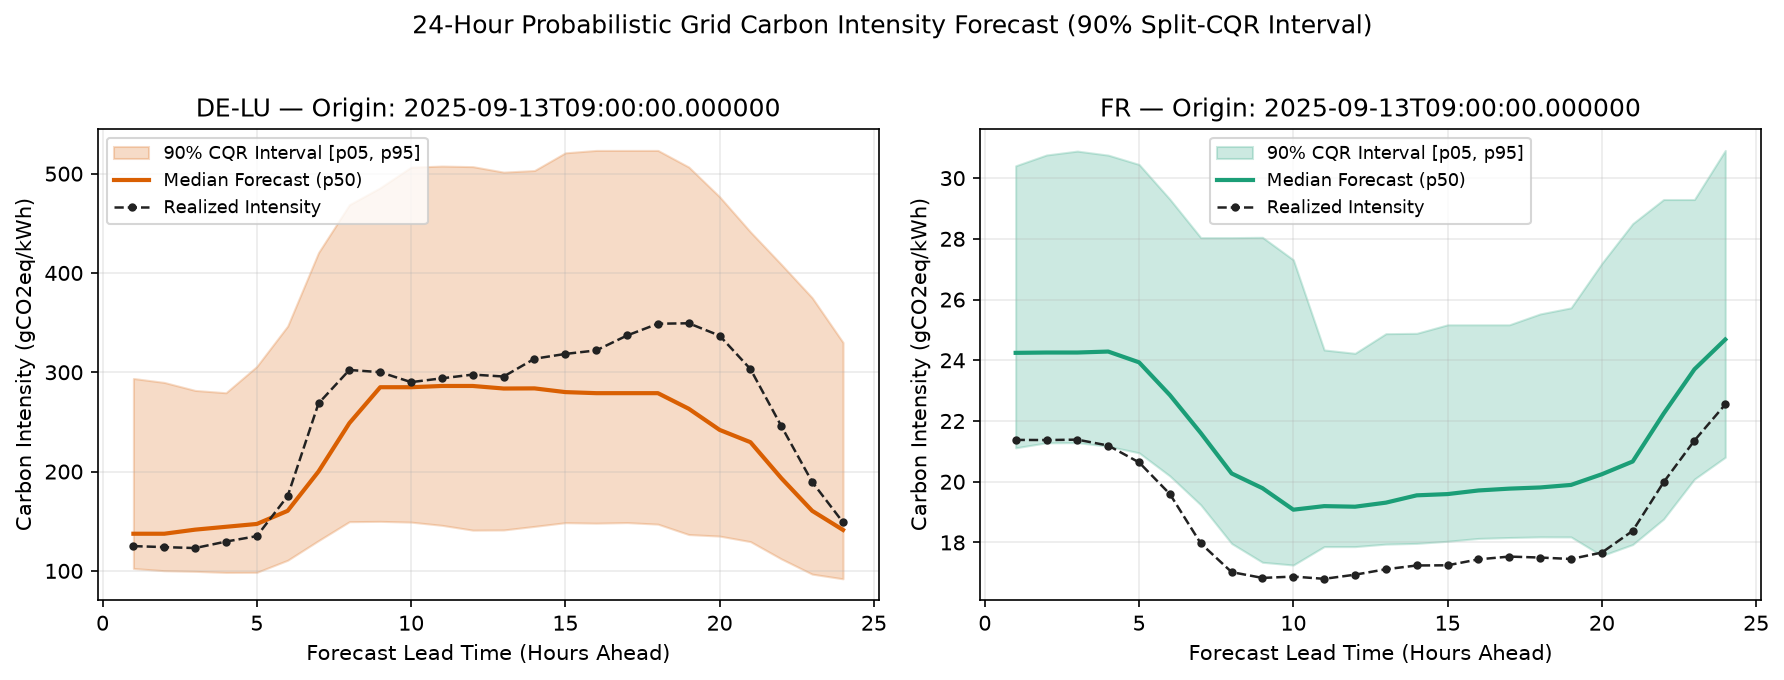
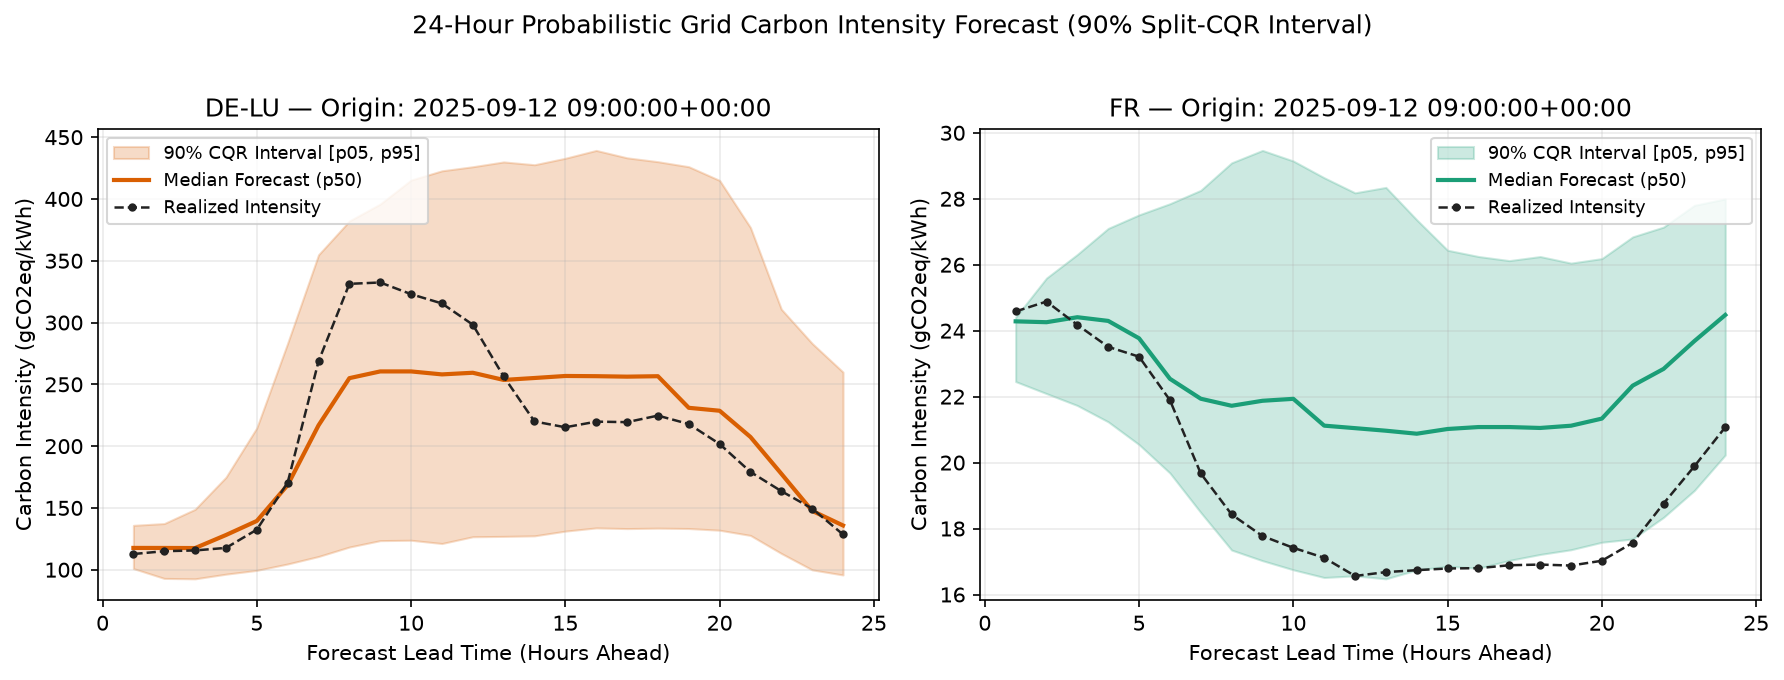
test(A-D): close audit gaps, finish Phase D docs, regenerate outputs
Audit: each Phase A-D fix was broken on purpose in a scratch copy and the
suite run against it. 24 of 28 breakages were caught; the 4 survivors
exposed missing tests, all closed here (28 of 28 now caught):

- Gate G2 audit now also re-derives the six origin-state generation-mix
  features and the rolling std; the perturbation test perturbs every input
  column, not only intensity
- the trained median must beat persistence on Gate-Val (catches a
  level/change target mismatch between training and prediction)
- direct sign test for add_conformity_scores
- logged Gate-Val metrics must equal a recomputation from the walk-forward
  predictions

Phase D completion:
- D8/D9: concept note describes the asymmetric per-horizon scores, weekly
  recalibration and walk-forward evaluation, and drops the "guaranteed
  finite-sample coverage" claim; it discloses that the locked test was not
  kept fully sealed
- AGENTS.md: calibration granularity and locked-test wording match the code
- register: Phase D statuses, D10, D11 (FR h=1 narrowly loses to
  persistence), audit record
- gold output keeps calibrated columns only; forecast CSV and fan chart
  regenerated with the current model (out-of-sample walk-forward forecast)

27 tests.

diff --git a/tests/test_pyfunc_contract.py b/tests/test_pyfunc_contract.py
@@ -13,6 +13,7 @@ from mlflow.tracking import MlflowClient
 from carbon_mlops.config import CarbonMLOpsConfig
 from carbon_mlops.features.build_features import CAUSAL_FEATURE_COLS, build_horizon_features
 from carbon_mlops.models.conformal import (
+    add_conformity_scores,
     calibrate_offsets,
     conformal_quantile,
     select_calibration_window,
@@ -20,7 +21,11 @@ from carbon_mlops.models.conformal import (
 )
 from carbon_mlops.models.evaluate_gate import evaluate_and_promote_champion
 from carbon_mlops.models.pyfunc_wrapper import ConformalCarbonForecaster
-from carbon_mlops.models.train import recalibrate_forecaster, train_split_cqr
+from carbon_mlops.models.train import (
+    compute_interval_metrics,
+    recalibrate_forecaster,
+    train_split_cqr,
+)
 from tests.test_no_leakage import _make_synthetic_bronze
 
 
@@ -114,6 +119,28 @@ def test_conformal_quantile_is_the_finite_sample_order_statistic() -> None:
         conformal_quantile(np.array([]), 0.95)
 
 
+class _FixedRawQuantiles:
+    """Stub exposing predict_raw_quantiles with constant level-scale quantiles."""
+
+    def predict_raw_quantiles(self, model_input: pd.DataFrame) -> pd.DataFrame:
+        return pd.DataFrame(
+            {"raw_q05": 90.0, "raw_q50": 100.0, "raw_q95": 110.0}, index=model_input.index
+        )
+
+
+def test_conformity_scores_are_positive_exactly_when_truth_is_outside() -> None:
+    labelled = pd.DataFrame({"target_carbon_intensity": [80.0, 100.0, 125.0]})
+    scored = add_conformity_scores(_FixedRawQuantiles(), labelled)
+
+    # Truth below the lower quantile: positive low score. Above the upper: positive high score.
+    assert scored["low_score"].tolist() == [10.0, -10.0, -35.0]
+    assert scored["high_score"].tolist() == [-30.0, -10.0, 15.0]
+
+    with pytest.raises(ValueError, match="realized targets"):
+        unlabelled = pd.DataFrame({"target_carbon_intensity": [np.nan]})
+        add_conformity_scores(_FixedRawQuantiles(), unlabelled)
+
+
 def _scored_history(n_hours: int = 24 * 40) -> pd.DataFrame:
     """Synthetic scored rows for one zone and one horizon, one origin per hour."""
     origins = pd.date_range("2025-01-01", periods=n_hours, freq="h", tz="UTC")
@@ -204,9 +231,21 @@ def test_us22_mlflow_registry_and_champion_promotion_gate(tmp_path: Path) -> Non
     assert (gate_preds["calibrated_as_of"] <= gate_preds["origin_timestamp"]).all()
     assert (gate_preds["p05"] <= gate_preds["p50"]).all()
     assert (gate_preds["p50"] <= gate_preds["p95"]).all()
+    metrics = artifacts.gate_val_metrics
     for zone_key in ("de_lu", "fr"):
-        assert f"gate_val_coverage_{zone_key}" in artifacts.gate_val_metrics
-        assert f"gate_val_persistence_pinball_p50_{zone_key}" in artifacts.gate_val_metrics
+        assert f"gate_val_coverage_{zone_key}" in metrics
+        # The trained median must be a better forecast than "no change from now".
+        assert (
+            metrics[f"gate_val_pinball_p50_{zone_key}"]
+            < metrics[f"gate_val_persistence_pinball_p50_{zone_key}"]
+        )
+
+    # Logged metrics are exactly what the walk-forward predictions imply.
+    truth = gate_preds["target_carbon_intensity"]
+    recomputed = float(((truth >= gate_preds["p05"]) & (truth <= gate_preds["p95"])).mean())
+    assert metrics["gate_val_coverage"] == pytest.approx(recomputed)
+    assert metrics == compute_interval_metrics(gate_preds, cfg, prefix="gate_val")
+    assert 0.0 < metrics["gate_val_coverage"] < 1.0
 
     # The registered forecaster scores every horizon and can be recalibrated on new data.
     full_origin = feats.dropna(subset=["target_carbon_intensity"]).groupby(

diff --git a/tests/test_no_leakage.py b/tests/test_no_leakage.py
@@ -34,8 +34,8 @@ def _make_synthetic_bronze(hours: int = 72) -> pd.DataFrame:
                     "carbon_intensity_g_kwh": base_ci
                     + 25.0 * np.sin(2 * np.pi * i / 24.0)
                     + i * 0.1,
-                    "wind_share": 0.30,
-                    "solar_share": 0.15,
+                    "wind_share": 0.30 + 0.10 * np.sin(i / 7.0),
+                    "solar_share": 0.15 + 0.05 * np.cos(i / 5.0),
                     "renewable_share": 0.50,
                     "nuclear_share": 0.0 if zone == "DE-LU" else 0.70,
                     "fossil_share": 0.45 if zone == "DE-LU" else 0.05,
@@ -62,11 +62,14 @@ def test_gate_g2_temporal_invariants_and_lag_causality(tmp_path: Path) -> None:
     for col in CAUSAL_FEATURE_COLS:
         assert col in features.columns, f"Missing feature column {col}"
 
-    # 3. Perturbing future targets after origin t0 must NOT change features at or before t0
+    # 3. Perturbing EVERY input column after origin t0 must NOT change features at or before t0
     t0 = pd.Timestamp("2025-01-02 12:00:00")
     bronze_perturbed = bronze.copy()
     future_mask = bronze_perturbed["timestamp_utc"] > t0
     bronze_perturbed.loc[future_mask, "carbon_intensity_g_kwh"] = 1999.0
+    share_cols = ["wind_share", "solar_share", "renewable_share", "nuclear_share", "fossil_share"]
+    bronze_perturbed.loc[future_mask, share_cols] = 0.99
+    bronze_perturbed.loc[future_mask, "gen_total_mwh"] = 1.0
 
     features_perturbed = build_horizon_features(
         bronze_perturbed, cfg=cfg, write_output=False, base_dir=tmp_path
@@ -183,6 +186,24 @@ def test_gate_g2_audit_detects_wrong_target(tmp_path: Path) -> None:
     wrong["target_carbon_intensity"] = wrong["carbon_intensity_origin"]
     with pytest.raises(AssertionError, match="target is not the value"):
         audit_temporal_alignment(wrong, grid)
+
+
+def test_gate_g2_audit_detects_future_generation_mix(tmp_path: Path) -> None:
+    features, grid = _one_zone_features(tmp_path)
+    leaked = features.copy()
+    future_wind = grid.set_index("timestamp_utc")["wind_share"].shift(-3)
+    leaked["wind_share_origin"] = future_wind.reindex(leaked["origin_timestamp"]).to_numpy()
+    with pytest.raises(AssertionError, match="wind_share_origin"):
+        audit_temporal_alignment(leaked, grid)
+
+
+def test_gate_g2_audit_detects_centered_rolling_window(tmp_path: Path) -> None:
+    features, grid = _one_zone_features(tmp_path)
+    leaked = features.copy()
+    centered = grid.set_index("timestamp_utc")["carbon_intensity_g_kwh"].rolling(24, center=True)
+    leaked["ci_roll24_std"] = centered.std().reindex(leaked["origin_timestamp"]).to_numpy()
+    with pytest.raises(AssertionError, match="ci_roll24_std"):
+        audit_temporal_alignment(leaked.dropna(subset=["ci_roll24_std"]), grid)
 
 
 def test_splits_are_purged_at_every_boundary(tmp_path: Path) -> None:

diff --git a/src/carbon_mlops/features/build_features.py b/src/carbon_mlops/features/build_features.py
@@ -114,6 +114,16 @@ LAG_HOURS_BY_FEATURE: dict[str, int] = {
 }
 
 
+ORIGIN_STATE_SOURCES: dict[str, str] = {
+    "wind_share_origin": "wind_share",
+    "solar_share_origin": "solar_share",
+    "renewable_share_origin": "renewable_share",
+    "nuclear_share_origin": "nuclear_share",
+    "fossil_share_origin": "fossil_share",
+    "gen_total_mwh_origin": "gen_total_mwh",
+}
+
+
 def audit_temporal_alignment(zone_features: pd.DataFrame, grid_df: pd.DataFrame) -> None:
     """Gate G2: re-derive every lag and target by timestamp lookup and compare.
 
@@ -140,10 +150,21 @@ def audit_temporal_alignment(zone_features: pd.DataFrame, grid_df: pd.DataFrame)
     if not np.allclose(actual_target, expected_target, equal_nan=True):
         raise AssertionError("Gate G2 violation: target is not the value at target_timestamp")
 
-    rolling_mean = series.rolling("24h", min_periods=12).mean()
-    expected_roll = rolling_mean.reindex(origin).to_numpy()
-    if not np.allclose(zone_features["ci_roll24_mean"].to_numpy(), expected_roll, equal_nan=True):
-        raise AssertionError("Gate G2 violation: ci_roll24_mean is not the trailing 24h mean")
+    trailing = series.rolling("24h", min_periods=12)
+    expected_roll = {
+        "ci_roll24_mean": trailing.mean(),
+        "ci_roll24_std": trailing.std().fillna(0.0),
+    }
+    for col, expected_series in expected_roll.items():
+        expected = expected_series.reindex(origin).to_numpy()
+        if not np.allclose(zone_features[col].to_numpy(), expected, equal_nan=True):
+            raise AssertionError(f"Gate G2 violation: {col} is not a trailing 24h statistic")
+
+    by_hour = grid_df.set_index("timestamp_utc")
+    for col, source in ORIGIN_STATE_SOURCES.items():
+        expected = by_hour[source].reindex(origin).to_numpy(dtype=float)
+        if not np.allclose(zone_features[col].to_numpy(dtype=float), expected, equal_nan=True):
+            raise AssertionError(f"Gate G2 violation: {col} is not the value of {source} at origin")
 
     if (zone_features["max_feature_timestamp"] > origin).any():
         raise AssertionError("Gate G2 violation: max_feature_timestamp exceeds origin_timestamp")

diff --git a/src/carbon_mlops/inference/batch_score.py b/src/carbon_mlops/inference/batch_score.py
@@ -34,7 +34,7 @@ def run_local_pipeline(cfg: CarbonMLOpsConfig | None = None) -> pd.DataFrame:
     latest_origins = complete.groupby("zone")["origin_timestamp"].transform("max")
     gold_df = (
         complete[complete["origin_timestamp"] == latest_origins]
-        .drop(columns=["low_score", "high_score"])
+        .drop(columns=["low_score", "high_score", "raw_q05", "raw_q50", "raw_q95"])
         .sort_values(["zone", "horizon_h"])
         .reset_index(drop=True)
     )

diff --git a/docs/CONCEPT_NOTE.md b/docs/CONCEPT_NOTE.md
@@ -13,7 +13,7 @@ Decarbonizing flexible industrial and municipal electricity demand—such as com
 Standard scheduling tools rely on **deterministic point forecasts** of grid carbon intensity (`gCO2eq/kWh`). In grids with high variable renewable energy (VRE) penetration like Germany–Luxembourg (`DE-LU`), wind and solar forecast errors create asymmetric tail risks: scheduling a 3-hour industrial batch around an optimistic point forecast can inadvertently trigger peak-hour fossil dispatch (`lignite`/`gas`).
 
 This project operationalizes an end-to-end **Databricks MLOps & Uncertainty-Aware Decision System** for `DE-LU` and France (`FR`) that:
-1. Delivers calibrated 24-hour probabilistic forecasts (`p05`, `p50`, `p95`) with guaranteed finite-sample coverage.
+1. Delivers 24-hour probabilistic forecasts (`p05`, `p50`, `p95`) whose 90% intervals are conformally calibrated and recalibrated weekly on recent forecast errors. Coverage is verified empirically: hourly grid data is autocorrelated and seasonal, so the textbook finite-sample guarantee of conformal prediction does not strictly apply.
 2. Publishes batch-exported Gold forecasts and drift diagnostics to **Tableau Public** (via packaged `.twbx` extracts) for operational planning.
 3. Provides a **grounded, tool-calling QA Copilot** (with MLflow Tracing) that answers risk-constrained dispatch and model-health questions using deterministic queries over Gold tables—never LLM-invented numbers.
 
@@ -21,18 +21,20 @@ This project operationalizes an end-to-end **Databricks MLOps & Uncertainty-Awar
 
 ## 2. Core Research & Operational Questions
 1. **Grid Regime Dynamics (`Sprint 1`):** How do diurnal, seasonal, and renewable-penetration regimes shape the distribution and autocorrelation structure of carbon intensity in `DE-LU` versus nuclear-dominated `FR`?
-2. **Horizon & Regime Uncertainty (`Sprint 1–3`):** How does predictive uncertainty (`p95 - p05` width) evolve across lead times (`t+1h` through `t+24h`) and renewable ramp regimes, and can per-`(zone, horizon_bucket)` Split CQR maintain nominal 90% coverage without look-ahead leakage?
+2. **Horizon & Regime Uncertainty (`Sprint 1–3`):** How does predictive uncertainty (`p95 - p05` width) evolve across lead times (`t+1h` through `t+24h`) and renewable ramp regimes, and can per-`(zone, horizon)` Split CQR with scheduled recalibration maintain nominal 90% coverage without look-ahead leakage?
 3. **Operational Load Shifting (`Sprint 3`):** When and under what upper-bound risk tolerances (`p95`) does domestic `DE-LU` load shifting outperform `FR` carbon parity?
 4. **Production Reliability & Grounded QA (`Sprint 2–4`):** How can automated promotion gates (`@champion`), feature drift (PSI) tracking, and trace-audited tool calling prevent silent model degradation and numeric hallucination?
 
 ---
 
 ## 3. Experimental Design & 4-Way Chronological Split
-To prevent repeated model-selection peeking from contaminating statistical hypothesis testing, the historical timeline is partitioned strictly in chronological order into **four non-overlapping blocks**:
-1. **Train Split (60%):** Fits base LightGBM quantile regressors (`tau in {0.05, 0.50, 0.95}`).
-2. **Conformal Calibration Split (15%):** Computes nonconformity residuals `E_i = max(q_0.05(x_i) - y_i, y_i - q_0.95(x_i))` per `(zone, horizon_bucket)`.
-3. **Validation / Promotion Gate Split (10%):** Used exclusively by `evaluate_gate.py` (`Gate G3`) to evaluate `@challenger` vs. `@champion` coverage and pinball loss prior to promotion.
-4. **Locked Holdout Test Split (15%):** Sealed until **Sprint 3 (`US-3.1`)** and evaluated once for pre-registered hypotheses `H1–H3`.
+To prevent repeated model-selection peeking from contaminating statistical hypothesis testing, the historical timeline is partitioned strictly in chronological order into **four non-overlapping blocks**. A forecast row belongs to a block only if its target hour also falls inside it, so no target hour is shared between blocks:
+1. **Train Split (60%):** Fits base LightGBM quantile regressors (`tau in {0.05, 0.50, 0.95}`) on the change from the origin intensity, so that persistence is the zero prediction.
+2. **Conformal Calibration Split (15%):** Supplies the first realized forecast errors for calibration. The interval is two-sided and asymmetric: lower-tail scores `q_0.05(x_i) - y_i` and upper-tail scores `y_i - q_0.95(x_i)` are each calibrated at the 95% level, separately per `(zone, horizon_h)`. The offsets are not frozen: every 7 days they are recomputed from the trailing 30 days of realized errors.
+3. **Validation / Promotion Gate Split (10%):** Used exclusively by `evaluate_gate.py` (`Gate G3`) to evaluate `@challenger` vs. `@champion` coverage and pinball loss prior to promotion. Its metrics come from a walk-forward replay of the recalibration schedule, so every forecast is calibrated only on errors observed before it.
+4. **Locked Holdout Test Split (15%):** Reserved for the pre-registered hypotheses `H1–H3` in **Sprint 3 (`US-3.1`)** and evaluated as a walk-forward under the same weekly recalibration schedule.
+
+*Disclosure:* The Locked Test was not kept fully sealed. During the pre-freeze review of November 2026 it was scored several times against the earlier model, which used static calibration, and the Sprint 1 EDA plots originally included its period (they have since been regenerated without it). That review's locked-test result prompted the move to scheduled recalibration. The window length, the target formulation and the model settings of the current model were then chosen on Gate-Val only.
 
 *Feature Scope Note:* Features combine strictly causal origin-state grid telemetry (`feature_ts <= origin_timestamp`), target calendar encodings (`target_hour`, `target_dow`, `target_month`), and—where available in the upstream snapshot—day-ahead TSO generation/load schedules published prior to `origin_timestamp`. The current Bronze snapshot exports no day-ahead schedules, prices or cross-border flows, so the model uses origin-state and calendar features only.
 

diff --git a/docs/REVIEW_ISSUES.md b/docs/REVIEW_ISSUES.md
@@ -21,7 +21,7 @@ Gate-Val: DE-LU 92.46%, FR 87.37%, pooled 89.92%.
 | ID | Issue | Where | Status |
 | :--- | :--- | :--- | :--- |
 | A1 | Bare `pytest` fails at collection (`No module named 'tests'`) | `tests/test_pyfunc_contract.py:17`, `ci_cd.yml` | done |
-| A2 | No git remote; CI has never run | repo | user |
+| A2 | No git remote; CI has never run | repo | done (private GitHub remote; CI green) |
 | A3 | `bundle validate` uses a dummy host/token and cannot pass | `ci_cd.yml` | done |
 | A4 | `pytest`, `ruff`, `openai` are runtime dependencies | `pyproject.toml` | done |
 | A5 | `Makefile` and `dev.ps1` lint different paths than CI (`notebooks` missing) | `Makefile`, `scripts/dev.ps1` | done |
@@ -54,7 +54,7 @@ Phase B outcome: lags are now hour-exact and 17 untrusted hours are masked. Lock
 | C1 | No 24h purge; 600 rows per boundary have targets in the next split | `train.py:35-63` | done |
 | C2 | G2 assertions are tautological and miss the lag bug | `build_features.py:135-141`, `test_no_leakage.py` | done |
 | C3 | EDA notebook reads the locked-test period | `notebooks/01_eda_and_data_quality.py` | done (plots regenerated on pre-test data; the earlier look at the test period is disclosed under F11) |
-| C4 | Calibration season (spring/summer) differs from test season (autumn/winter) | design; addressed by D2 | open |
+| C4 | Calibration season (spring/summer) differs from test season (autumn/winter) | design; addressed by D2 | done (addressed by D2) |
 | C5 | EDA notebook crashed at the heatmap (`axes.set_ylabel` on an array), so the committed plots could not be regenerated | `notebooks/01_eda_and_data_quality.py:68` | done |
 | C6 | Local scoring picked the last Gate-Val origin, which after purging has a single horizon | `batch_score.py` | done |
 
@@ -65,15 +65,44 @@ Locked-test coverage after purging: DE-LU 89.67%, FR 80.00% (Gate-Val: DE-LU 92.
 
 | ID | Issue | Where | Status |
 | :--- | :--- | :--- | :--- |
-| D1 | Base model underfit: raw coverage 71–76%, loses to persistence at h=1 (MAE 23.2 vs 16.3) | `train.py:134-145` | open |
-| D2 | Static offsets do not transfer: FR test coverage 80.3% (rolling 60-day recalibration: 85.6%) | `train.py:149-173` | open |
-| D3 | Bucket-level offsets hide per-horizon miscalibration (94.7% at h=1, 89.2% at h=6) | `train.py`, `config.py` | open |
+| D1 | Base model underfit: raw coverage 71–76%, loses to persistence at h=1 (MAE 23.2 vs 16.3) | `train.py:134-145` | done |
+| D2 | Static offsets do not transfer: FR test coverage 80.3% (rolling 60-day recalibration: 85.6%) | `train.py:149-173` | done |
+| D3 | Bucket-level offsets hide per-horizon miscalibration (94.7% at h=1, 89.2% at h=6) | `train.py`, `config.py` | done |
 | D4 | DE-LU coverage is 72% in the top renewable quartile, all misses below p05 | `train.py` | open (optional before freeze) |
-| D5 | Unknown bucket silently gets a zero offset | `pyfunc_wrapper.py:87` | open |
-| D6 | Dead `else` branch that would crash on a float | `pyfunc_wrapper.py:48-53` | open |
-| D7 | `horizon_bucket` is trusted from input instead of derived from `horizon_h` | `pyfunc_wrapper.py:82-86` | open |
-| D8 | Code is asymmetric CQR; concept note describes the symmetric score | `CONCEPT_NOTE.md` §3 | open |
-| D9 | "Guaranteed finite-sample coverage" is an overclaim for autocorrelated data | `CONCEPT_NOTE.md` §1 | open |
+| D5 | Unknown bucket silently gets a zero offset | `pyfunc_wrapper.py:87` | done |
+| D6 | Dead `else` branch that would crash on a float | `pyfunc_wrapper.py:48-53` | done |
+| D7 | `horizon_bucket` is trusted from input instead of derived from `horizon_h` | `pyfunc_wrapper.py:82-86` | done |
+| D8 | Code is asymmetric CQR; concept note describes the symmetric score | `CONCEPT_NOTE.md` §3 | done |
+| D9 | "Guaranteed finite-sample coverage" is an overclaim for autocorrelated data | `CONCEPT_NOTE.md` §1 | done |
+| D10 | Conformal quantile via `np.quantile(method="higher")` landed one rank too high (intervals slightly too wide) | `models/conformal.py` | done |
+| D11 | FR at h=1 narrowly loses to persistence on Gate-Val (MAE 1.398 vs 1.372); every bucket still wins | `train.py` | open (bucket-level baseline check is E3) |
+
+Phase D outcome (all choices made on Gate-Val only; the locked test was not scored):
+
+| Gate-Val walk-forward | Static, 3 buckets | Rolling 30 days, per horizon |
+| :--- | :--- | :--- |
+| DE-LU coverage | 92.3% | 89.5% |
+| FR coverage | 87.0% | 89.0% |
+| Per-horizon coverage range | 84% – 97.5% | 87% – 92% |
+
+The 600-tree model had about 3% lower pinball loss on Gate-Val but takes 26 s to fit; the 200-tree
+model was kept to stay inside the 15 s local-run budget.
+
+## Audit of Phases A–D (2026-11-15)
+
+Each fix was deliberately broken in a scratch copy and the test suite run against it.
+24 of 28 breakages were caught. The 4 survivors exposed missing tests, now added:
+
+| Survivor | Gap | Closed by |
+| :--- | :--- | :--- |
+| A generation-mix feature reading the future | Leakage test perturbed only intensity; G2 audit checked only intensity lags | Audit now covers all origin-state features and the rolling std; perturbation test perturbs every input column |
+| Training on the level while predicting as a change | No test of forecast accuracy | Trained median must beat persistence on Gate-Val |
+| Conformity score with the wrong sign | No direct test of `add_conformity_scores` | Sign test with a stub model |
+| Gate metrics computed from other intervals | Metrics not tied to predictions | Metrics must equal a recomputation from the walk-forward predictions |
+
+Independent re-verification on the real snapshot found 0 flagged hours used as origin or target,
+0 mismatches across lags, rolling statistics and origin-state features, and 0 target hours shared
+between splits.
 
 ## Phase E: Promotion gate
 

diff --git a/AGENTS.md b/AGENTS.md
@@ -2,9 +2,9 @@
 
 ## Domain & Statistical Scope (`DE-LU` & `FR`)
 - **Zones:** `["DE-LU", "FR"]` (Germany-Luxembourg vs. France electricity grids).
-- **Horizons:** `1` to `24` hours ahead (`t+1h` .. `t+24h`), grouped into horizon buckets (`1-6h`, `7-12h`, `13-24h`) for per-`(zone, horizon_bucket)` Split Conformalized Quantile Regression (CQR).
+- **Horizons:** `1` to `24` hours ahead (`t+1h` .. `t+24h`), grouped into horizon buckets (`1-6h`, `7-12h`, `13-24h`) for reporting. Split Conformalized Quantile Regression (CQR) offsets are calibrated per `(zone, horizon_h)` and recalibrated on a schedule (trailing 30 days, every 7 days; `models/conformal.py`).
 - **Target & Quantiles:** Grid carbon intensity (`gCO2eq/kWh`), predicting calibrated `[p05, p50, p95]` (nominal 90% prediction interval).
-- **4-Way Chronological Split:** Strict time-ordered split (`Train 60%` / `Calib 15%` / `Gate-Val 10%` / `Locked Test 15%`). `evaluate_gate.py` uses `Gate-Val` only; `Locked Test` is touched once in Sprint 3 for `H1-H3` using daily/non-overlapping aggregation to prevent autocorrelation bias.
+- **4-Way Chronological Split:** Strict time-ordered split (`Train 60%` / `Calib 15%` / `Gate-Val 10%` / `Locked Test 15%`). `evaluate_gate.py` uses `Gate-Val` only; `Locked Test` is reserved for `H1-H3` in Sprint 3, evaluated as a walk-forward under the recalibration schedule, using daily/non-overlapping aggregation to prevent autocorrelation bias. Splits are purged so that no target hour is shared between them.
 
 ## Canonical Project Layout & Names
 - Root helper: `Makefile` (Linux CI) and `scripts/dev.ps1` (Windows PowerShell `test` / `run-local`).
